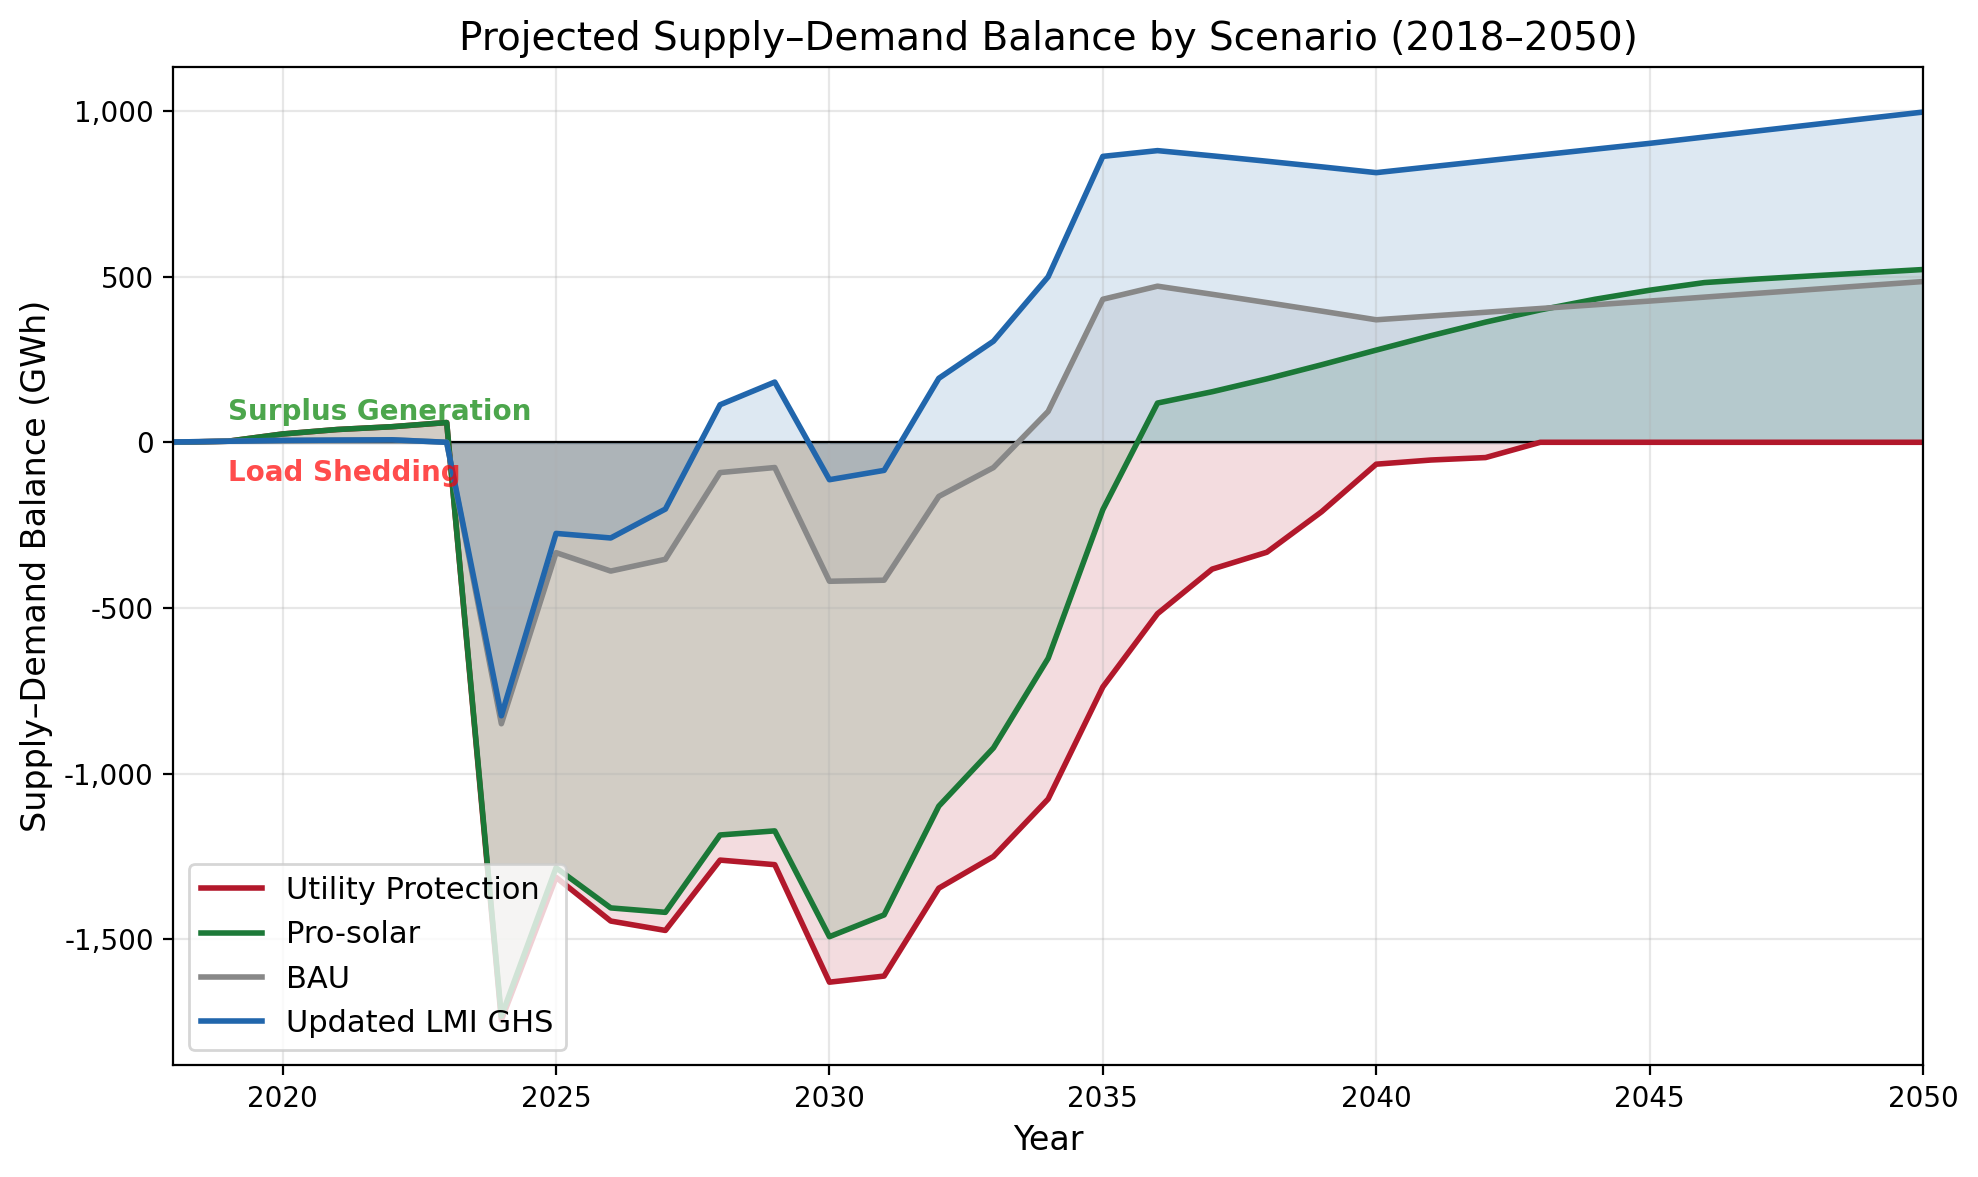
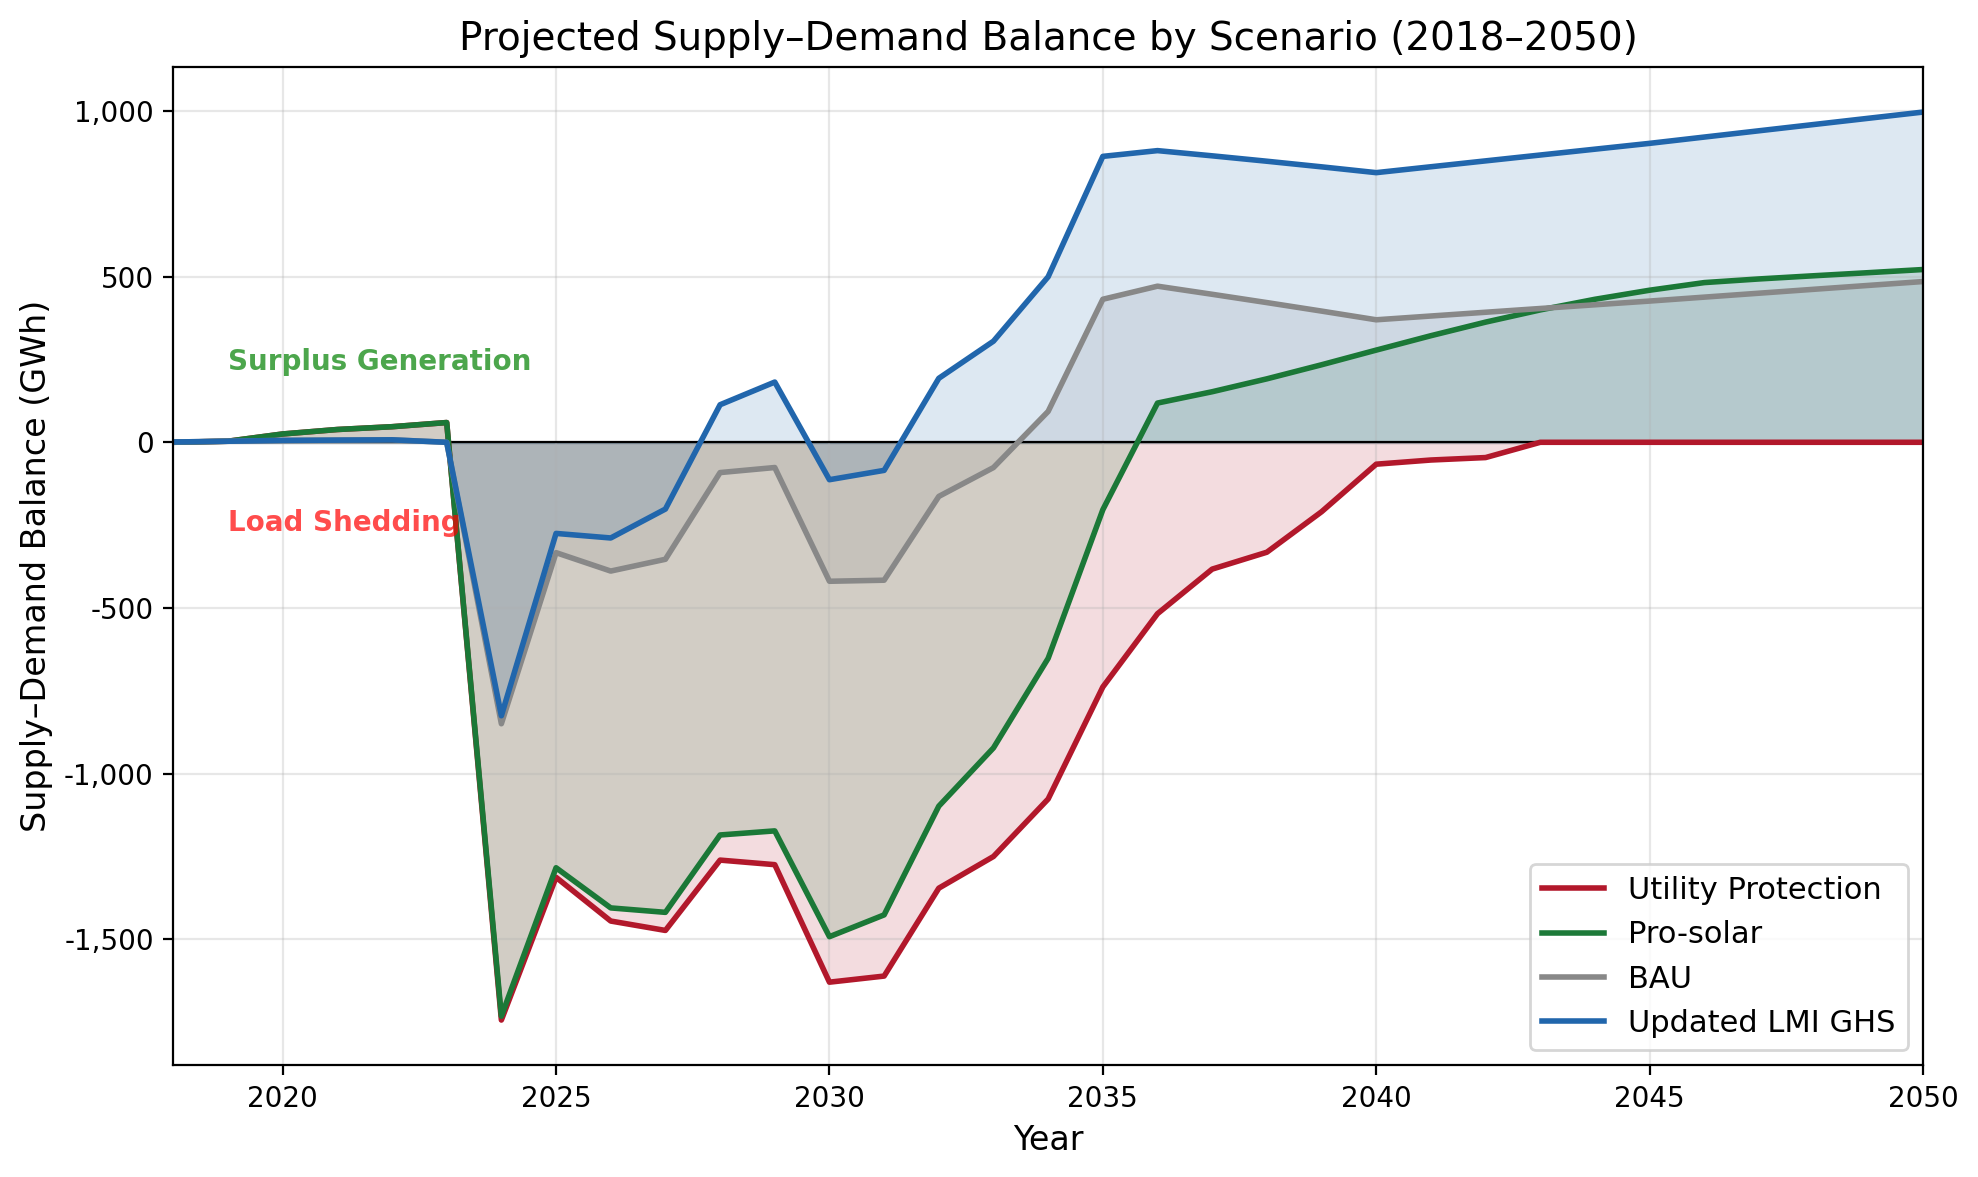
Fix supply-demand balance figure layout: move legend and labels
Move legend to lower right to avoid overlapping data lines. Reposition
surplus/load shedding labels further from zero line to reduce crowding.

https://claude.ai/code/session_0128PWdug5WTnjnjqd7eDwo8

diff --git a/s3-scenario/scenario_comparison_figure.py b/s3-scenario/scenario_comparison_figure.py
@@ -182,15 +182,15 @@ def plot_unmet_requirements(all_unmet, output_path):
     ax.set_xlabel('Year', fontsize=12)
     ax.set_ylabel('Supply–Demand Balance (GWh)', fontsize=12)
     ax.set_title('Projected Supply–Demand Balance by Scenario (2018–2050)', fontsize=14)
-    ax.legend(fontsize=11, loc='lower left')
+    ax.legend(fontsize=11, loc='lower right')
     ax.set_xlim(2018, 2050)
     ax.grid(True, alpha=0.3)
     ax.yaxis.set_major_formatter(mticker.FuncFormatter(lambda x, _: f'{x:,.0f}'))
 
-    # Region labels
-    ax.text(2019, 50, 'Surplus Generation', fontsize=10, color='green',
+    # Region labels — position further from x-axis to avoid crowding
+    ax.text(2019, 200, 'Surplus Generation', fontsize=10, color='green',
             ha='left', va='bottom', alpha=0.7, fontweight='bold')
-    ax.text(2019, -50, 'Load Shedding', fontsize=10, color='red',
+    ax.text(2019, -200, 'Load Shedding', fontsize=10, color='red',
             ha='left', va='top', alpha=0.7, fontweight='bold')
 
     fig.tight_layout()
